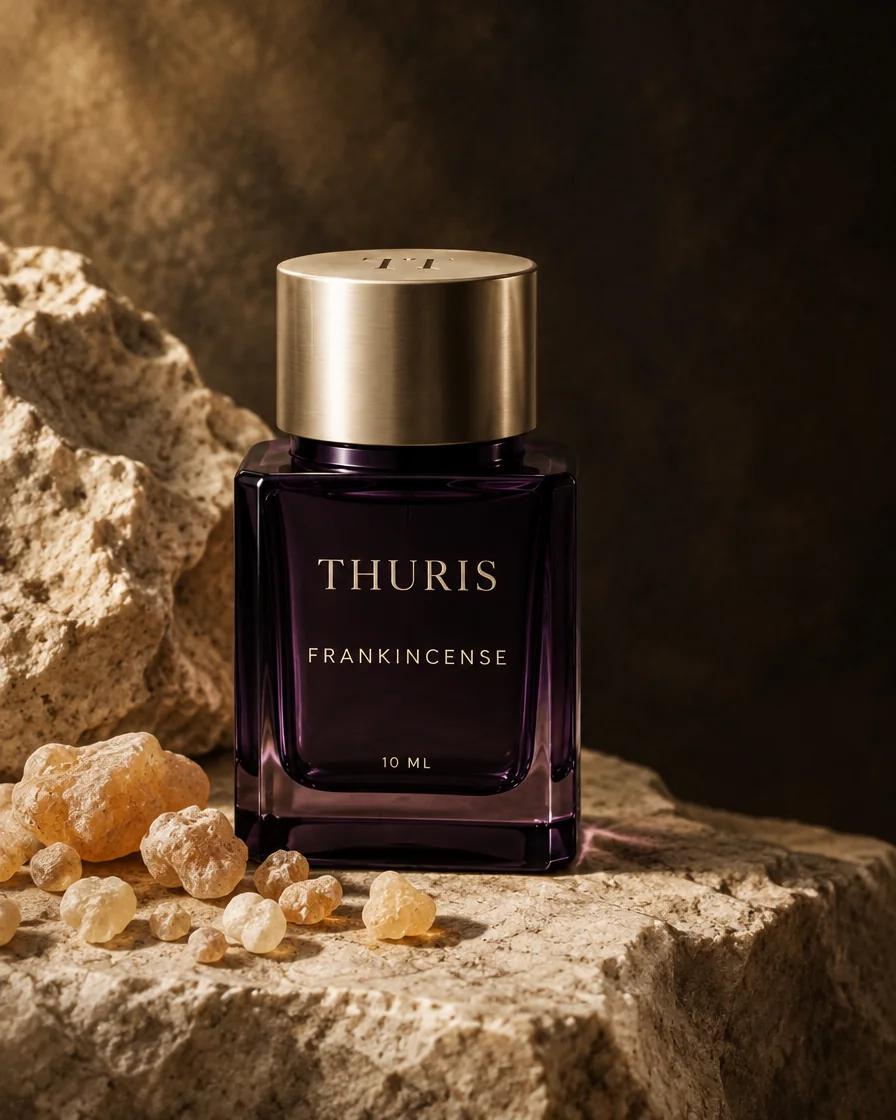
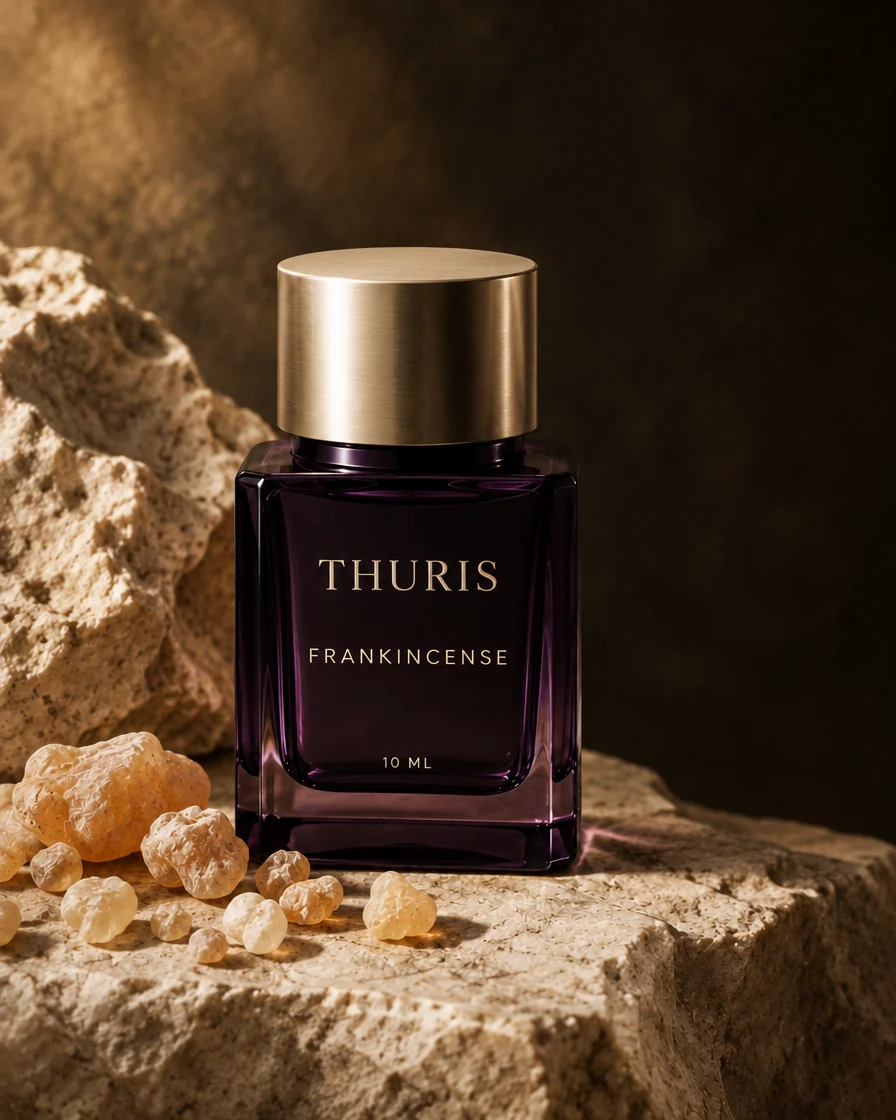
feat(thuris): cap-corrected image pack (solid metal cap tops); V1 brief decisions
Every pack image with a visible cap re-rendered via Higgsfield gpt_image_2_5
(reference = pack master): the engraved TT monogram read as holes/slots.
Adds 02 mobile hero. Records the Homepage Visual Refinement V1 operator
answers: prices 495/445/445 (disputed), bundle unpriced, supplied SVG wordmark.

diff --git a/intake/thuris/RESOLVED-DECISIONS.md b/intake/thuris/RESOLVED-DECISIONS.md
@@ -107,3 +107,17 @@ Front end built now; store wired when operator creates store + re-auths Shopify 
 - Hero: image-led, copy left (pack H01); final band copy right (H03).
 - GitHub repo (private craigdanielk/thuris) + Vercel project `thuris` created and linked; live at
   https://thuris.vercel.app. Next session: section-by-section upgrade.
+
+## Session 2026-10-21 (e) — Homepage Visual Refinement V1 (operator brief) + answers
+Brief V1 supersedes earlier choices where they conflict: nav wordmark restored (was "none until
+vectors"); display type H1 56–68 / H2 40–48 / H3 26–32 / body 16–18 / eyebrow 11–12 (was the
+benchmark's measured 32px ceiling); content max-width 1200, gutters 24–72, sections 112–144.
+- **Prices: display the differentiated model AED 495 / 445 / 445** (Frankincense / Neroli / Rose
+  Geranium). Commercially DISPUTED vs the earlier 395/445/395 until explicitly approved.
+  **Bundle: no price shown** (price and discount unconfirmed). Prices live in ONE place in the source
+  (data-field="price" on the collection cards); no duplicated constants. Shopify prices NOT mutated.
+- **Wordmark: supplied SVG `assets/logos/thuris-primary.svg`** (operator: "use it anyway").
+- **Caps: Higgsfield edit** — every pack image re-rendered with a plain solid brushed-metal cap top
+  (the engraved TT monogram read as holes/slots). gpt_image_2_5, high, reference = pack master.
+- **Provenance: species, countries of origin and the on-bottle statement are all documented** —
+  they stay. Ritual copy is trimmed to remove application/wearing implications (launch-copy HOLD).
